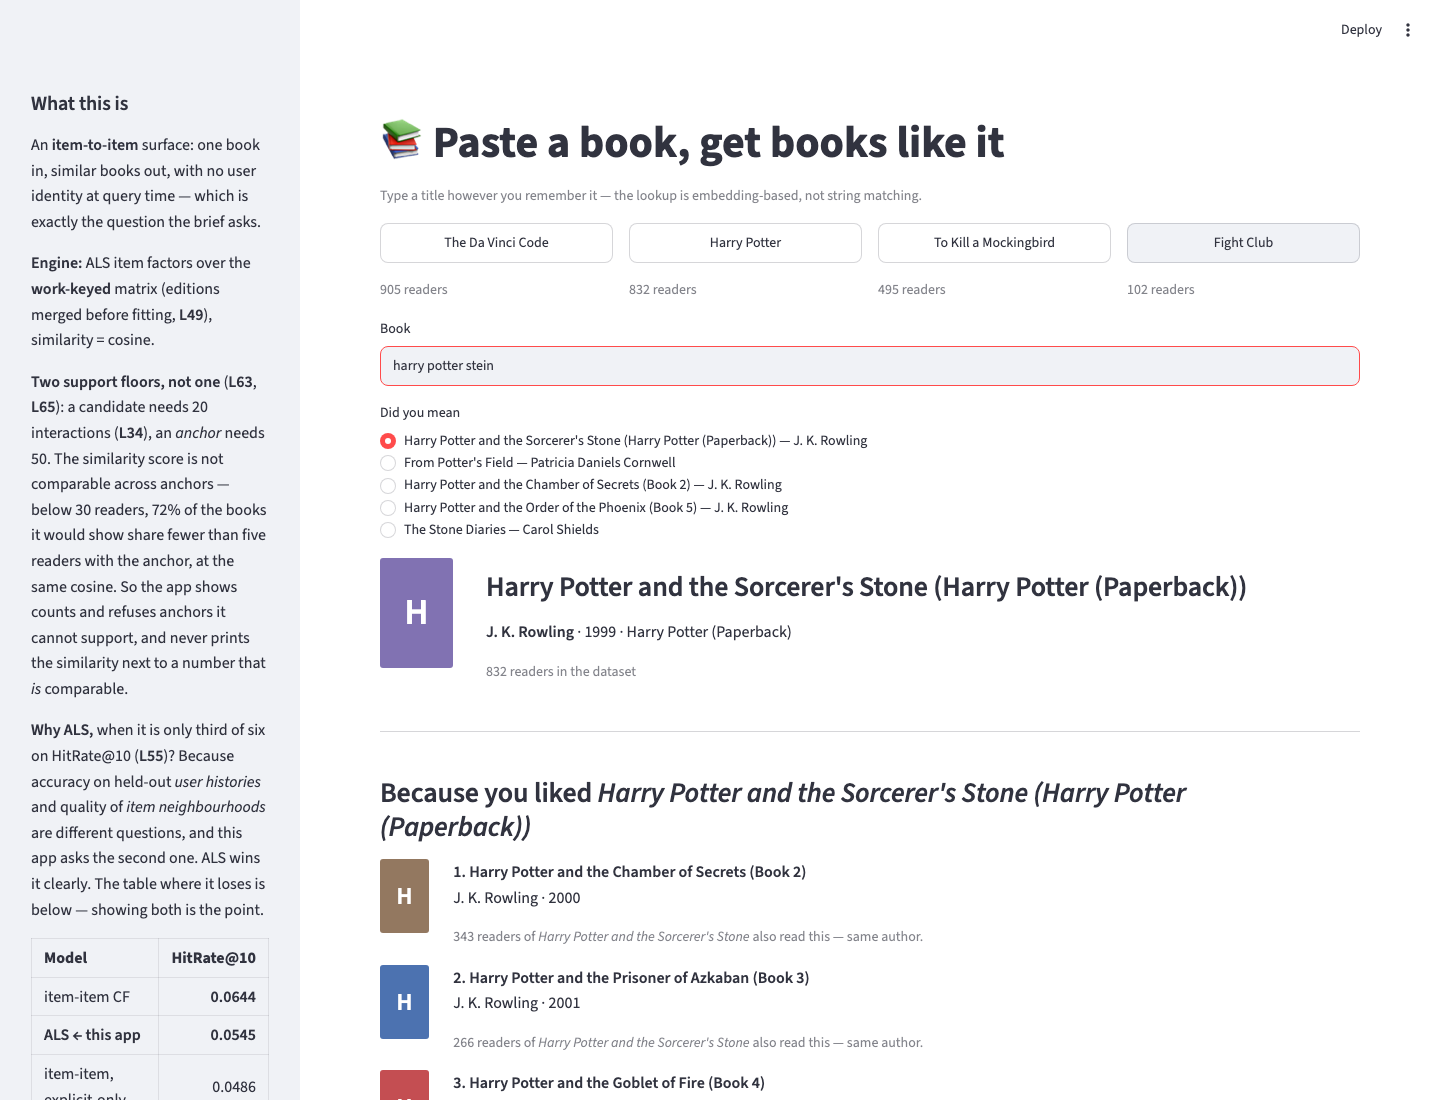
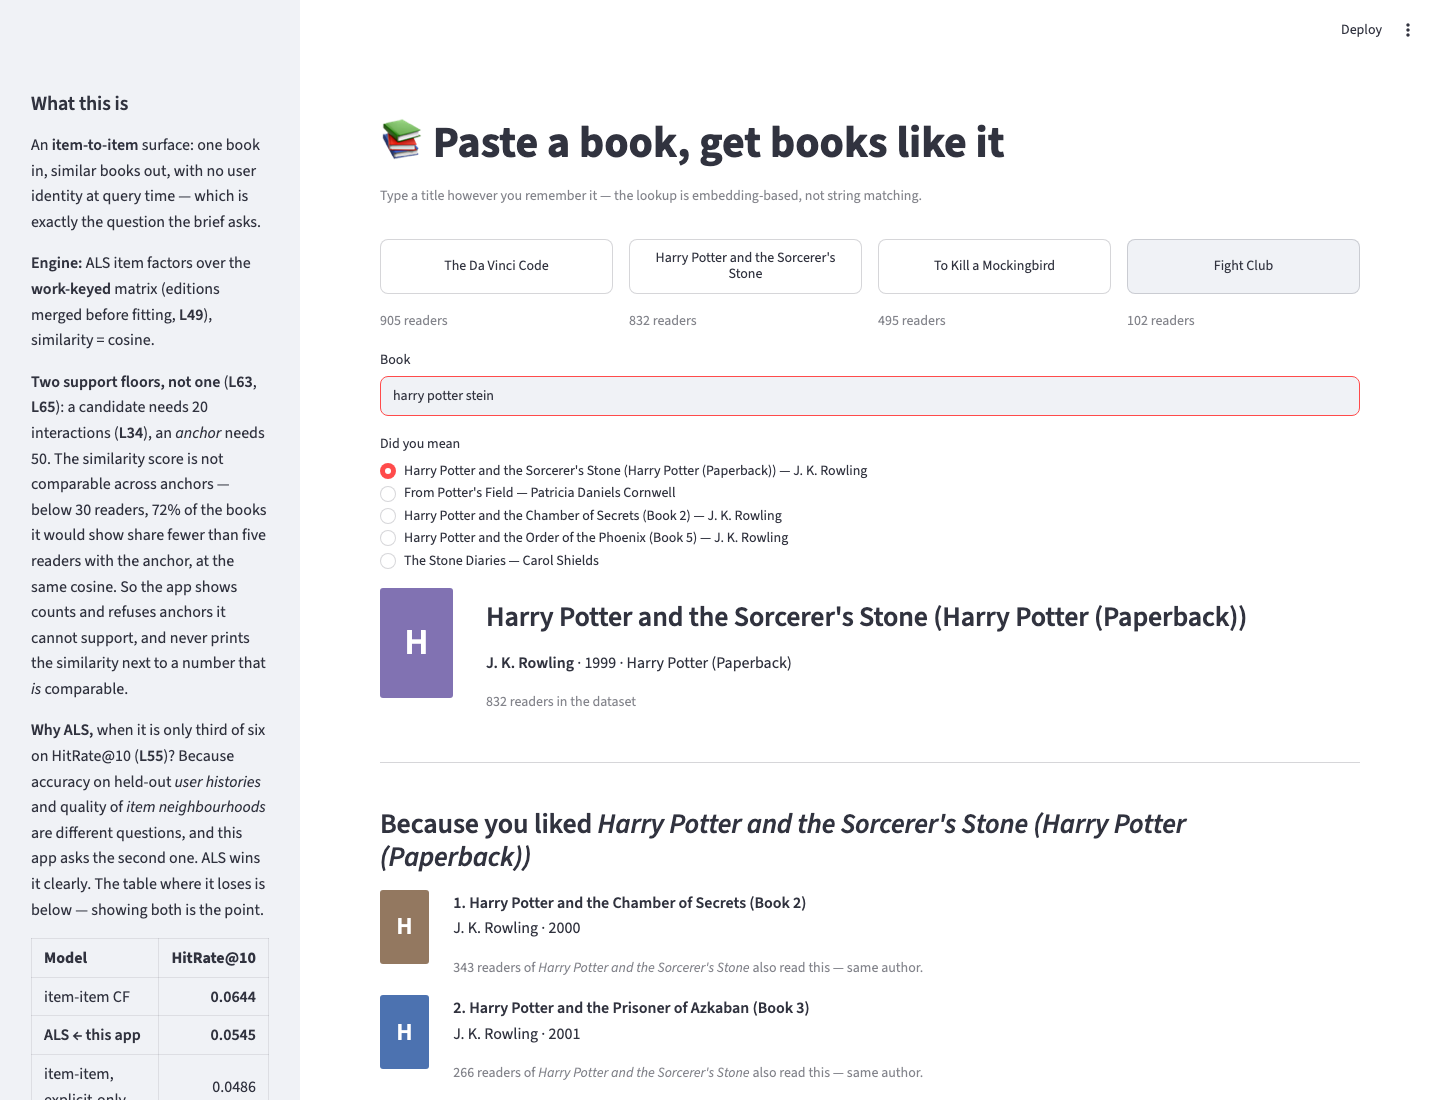
Harry Potter button carries its full title again
Helena, reversing the short label M14.8 specified: the buttons are the first
thing on screen and a truncated title reads as a different book.

The label wraps to two lines, which dropped that button's reader count half a
line below its neighbours' — so the button row gets a fixed height. A ragged
row of four is the kind of thing a panel notices instead of the result.

Screenshots re-shot; the harry_potter slug follows the label, as it is derived
from it.

diff --git a/src/recommender/gallery.py b/src/recommender/gallery.py
@@ -49,9 +49,15 @@ ANCHORS: dict[str, str] = {
 #: reaches Steinbeck, Golding, Kesey with **zero** same-author hits), then the
 #: counterexample — *Fight Club* has 102 interactions and an excellent list, which is what
 #: stops L63's support story from collapsing into "less data = worse".
+#:
+#: Labels are display text only: a button pins the work id beside it and never goes through
+#: :meth:`recommender.demo.DemoEngine.find`, so no button can fail for a lookup reason.
+#: The Harry Potter button carries its **full title** (Helena, 08.08.2026, reversing the
+#: short label M14.8 specified): the buttons are the first thing on screen and a truncated
+#: title reads as a different book, which is a worse cost than a wrapped line.
 DEMO_BUTTONS: dict[str, str] = {
     "The Da Vinci Code": "the da vinci code|brown",
-    "Harry Potter": "harry potter and the sorcerer's stone|rowling",
+    "Harry Potter and the Sorcerer's Stone": "harry potter and the sorcerer's stone|rowling",
     "To Kill a Mockingbird": "to kill a mockingbird|lee",
     "Fight Club": "fight club|palahniuk",
 }

diff --git a/app/main.py b/app/main.py
@@ -95,6 +95,13 @@ def main() -> None:
         st.caption(f"Cold start {cold_start:.1f}s · assets loaded once, no network, no fitting.")
 
     st.caption("Type a title however you remember it — the lookup is embedding-based, not string matching.")
+    # One button label runs to two lines and the others to one, which drops that button's
+    # reader count half a line below its neighbours'. A fixed height keeps the row square:
+    # the buttons are the first thing on screen and a ragged row reads as carelessness.
+    st.markdown(
+        "<style>div.stButton > button {height: 3.4rem; white-space: normal; line-height: 1.15;}</style>",
+        unsafe_allow_html=True,
+    )
     columns = st.columns(len(ANCHORS))
     for column, (label, isbn) in zip(columns, ANCHORS.items(), strict=True):
         if column.button(label, use_container_width=True):
